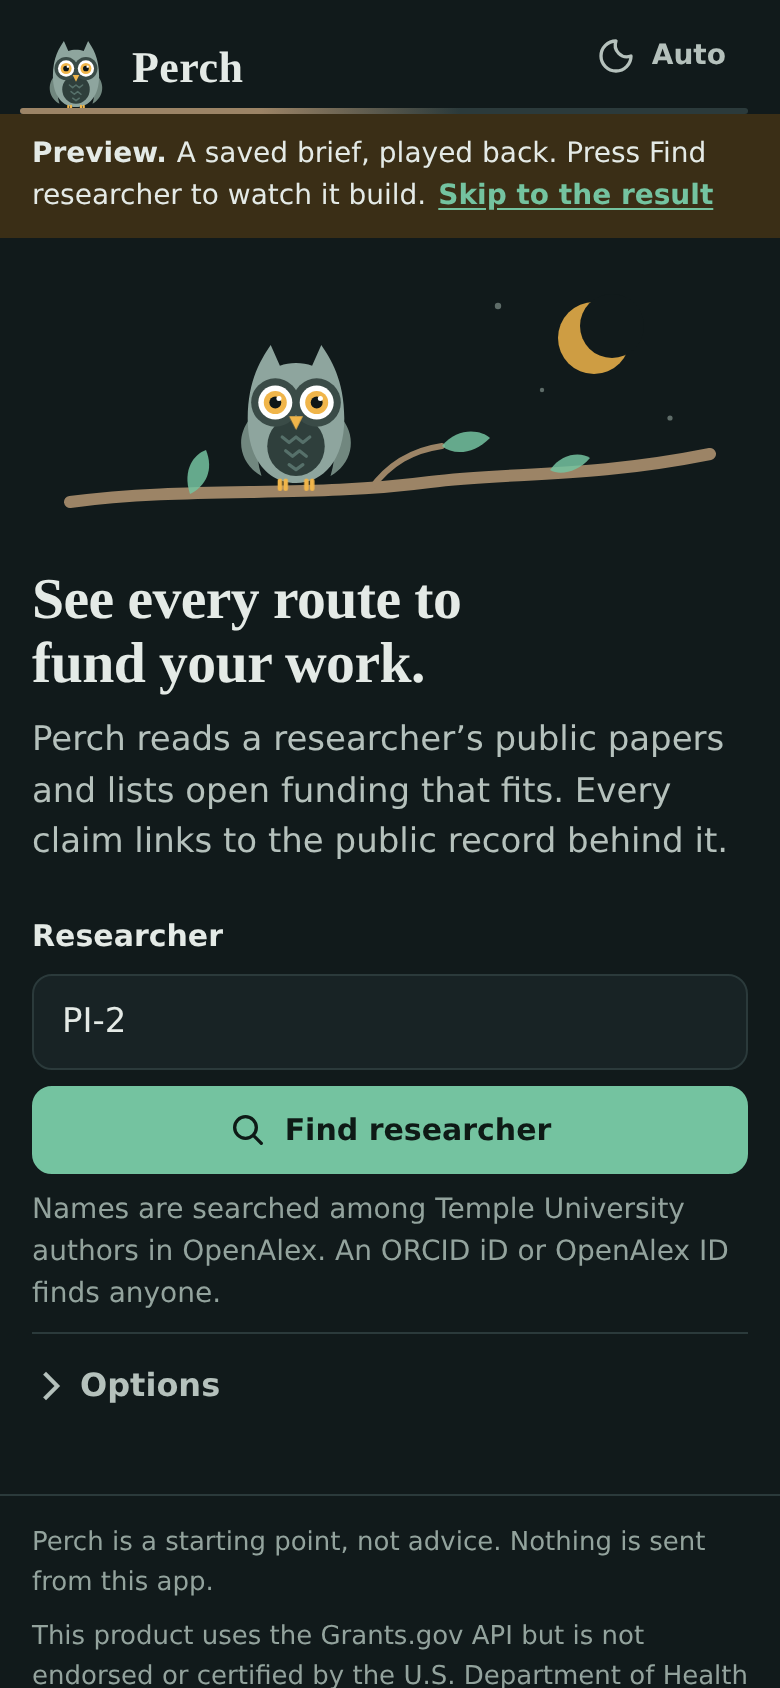
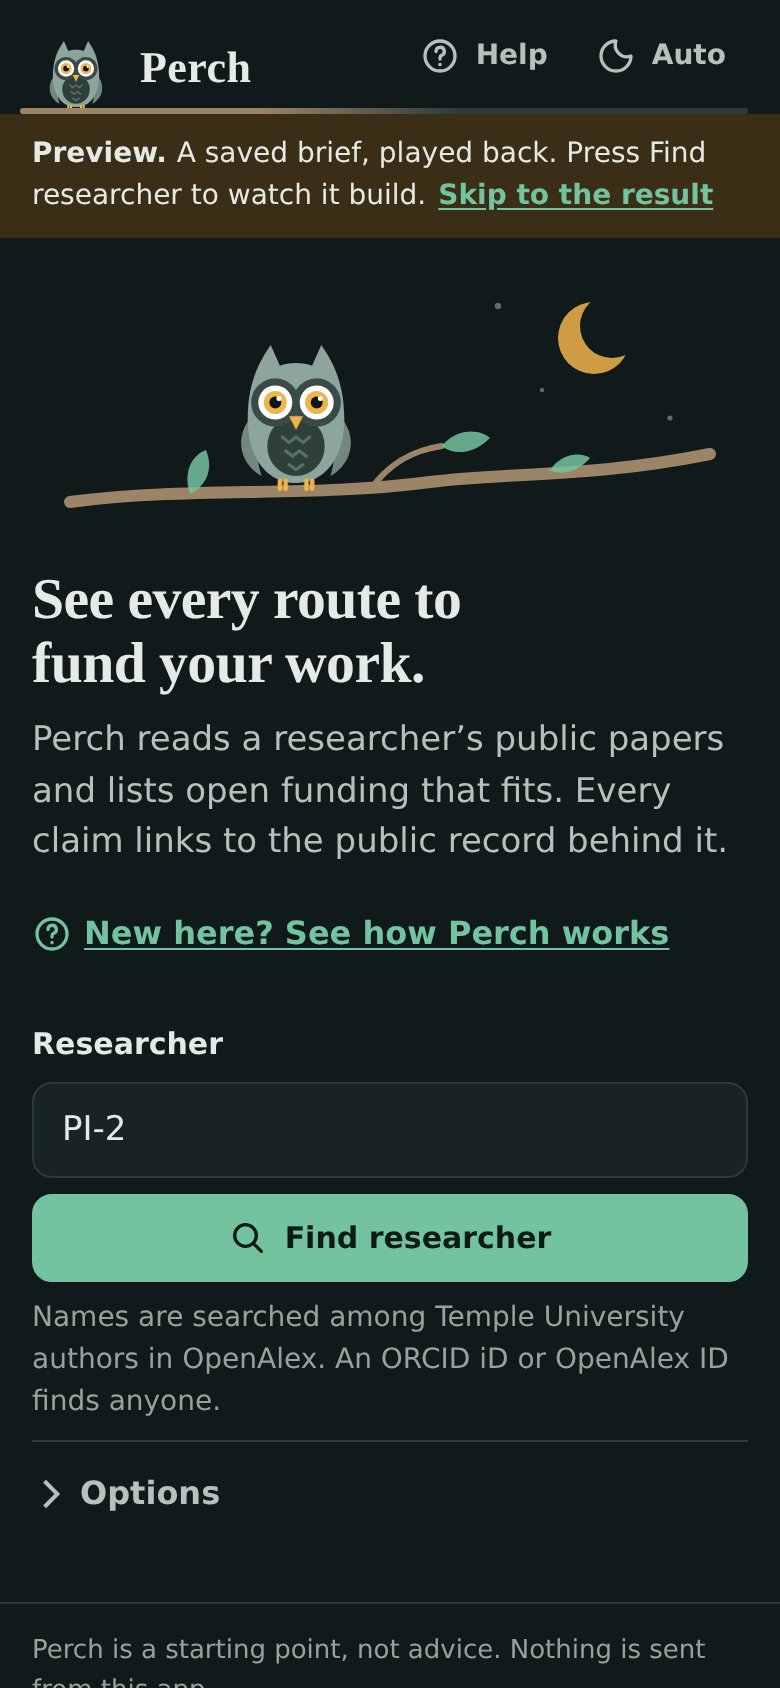
Help page: claims matched to the code after review (models named, forecasted and eligibility limits stated), example pictures marked, legend after picture, back via history; screenshots refreshed

diff --git a/web/help.js b/web/help.js
@@ -5,6 +5,11 @@
 import { h, icon } from "./dom.js";
 import { owl } from "./owl.js";
 
+function example(...kids) {
+  return h("figure", { class: "pic", "aria-hidden": "true" },
+    h("figcaption", { class: "pic-label", text: "Example" }), ...kids);
+}
+
 function bar(w) {
   return h("span", { class: "ph", style: `width:${w}%` });
 }
@@ -12,13 +17,13 @@ function bar(w) {
 // ----- step pictures (decorative; the step text says the same thing) -----
 
 function picFind() {
-  return h("div", { class: "pic", "aria-hidden": "true" },
+  return example(
     h("div", { class: "pic-field" }, h("span", { class: "pic-ph-text", text: "Name, ORCID iD or OpenAlex ID" })),
     h("div", { class: "pic-btn" }, icon("search"), h("span", { text: "Find researcher" })));
 }
 
 function picConfirm() {
-  return h("div", { class: "pic", "aria-hidden": "true" },
+  return example(
     h("div", { class: "pic-card" },
       h("div", { class: "pic-row" }, icon("person"), bar(46), h("span", { class: "tag moss", text: "Temple University" })),
       h("div", { class: "pic-row" }, bar(30), bar(24)),
@@ -27,7 +32,7 @@ function picConfirm() {
 
 function picWatch() {
   const knots = ["done", "done", "done", "running", "pending", "pending", "pending"];
-  return h("div", { class: "pic", "aria-hidden": "true" },
+  return example(
     h("div", { class: "pic-branch" },
       h("div", { class: "branch-line" }), h("div", { class: "branch-fill", style: "width:50%" }),
       h("div", { class: "knots" }, knots.map((s) => h("span", { class: "knot", "data-status": s }))),
@@ -37,7 +42,7 @@ function picWatch() {
 
 function picLead() {
   const n = (i) => h("span", { class: "callout", text: String(i) });
-  return h("div", { class: "pic pic-lead", "aria-hidden": "true" },
+  return example(
     h("div", { class: "pic-card" },
       h("div", { class: "pic-row between" },
         h("span", { class: "tags" }, h("span", { class: "tag", text: "NIH" }), h("span", { class: "tag", text: "R01" })),
@@ -56,58 +61,61 @@ function picLead() {
 function steps() {
   const items = [
     ["Find the researcher", picFind(),
-      "Type a name, an ORCID iD or an OpenAlex ID. Names are searched among Temple University authors."],
+      "Type a name, an ORCID iD or an OpenAlex ID. Names are searched among authors whose latest institution in OpenAlex is Temple University; if a name is not found, paste the ORCID iD."],
     ["Confirm it is the right person", picConfirm(),
       "Check the institution, topics and paper count. Nothing runs until you press Build brief."],
     ["Watch the brief build", picWatch(),
-      "Scout moves along the branch as each step finishes. The profile is ready in seconds; cited explanations take a minute or two."],
+      "Scout moves along the branch as each step finishes. In tests on the local model, the profile was ready in about 10 seconds and a full brief with explanations took about a minute and a half."],
     ["Read the routes and decide", picLead(), null],
   ];
   const legend = h("ol", { class: "callouts" },
     h("li", { text: "The fit estimate is a model’s judgment of how well the opportunity matches the papers. It is not the odds of funding." }),
-    h("li", { text: "The title opens the full record, as Grants.gov lists it." }),
+    h("li", { text: "The title, like Evidence, opens the record inside Perch, with a link to Grants.gov." }),
     h("li", { text: "Dates and amounts are copied from the record. Amber means it closes within 30 days." }),
     h("li", { text: "Text a model wrote is tagged. Open “Why it fits” to see which papers it cites." }),
-    h("li", { text: "Keep what is worth a closer look, dismiss what is not. Evidence opens the record behind the lead." }));
+    h("li", { text: "Keep what is worth a closer look; dismiss what is not. Dismissed leads can be restored." }));
   return h("section", { class: "help-block", "aria-labelledby": "h-use" },
     h("h2", { id: "h-use", class: "section-title", text: "How to use Perch" }),
     h("ol", { class: "how-steps" }, items.map(([title, pic, text], i) => h("li", { class: "how-step" },
       h("div", { class: "how-text" },
         h("span", { class: "step-n", "aria-hidden": "true", text: String(i + 1) }),
         h("h3", { text: title }),
-        text ? h("p", { text }) : legend),
-      pic))));
+        text ? h("p", { text }) : null),
+      pic, text ? null : legend))));
 }
 
 function pipeline() {
   const stages = [
-    ["paper", "Read the papers", "record",
-      "Perch fetches the researcher’s public papers from OpenAlex, and their public awards from NIH RePORTER and NSF."],
-    ["threads", "Group them into threads", "code",
-      "Papers are grouped by what they are about, with recent work counting for more."],
-    ["search2", "Search open funding", "code",
-      "Each thread is matched against open and forecasted opportunities from Grants.gov, by meaning and by shared words."],
-    ["filter", "Drop what you cannot apply to", "rules",
-      "Fixed rules read each record’s applicant types and title, and drop opportunities a university applicant is not eligible for."],
-    ["rank", "Rank the rest", "model",
-      "A ranking model puts the opportunities closest to the papers first."],
-    ["pen", "Explain each lead", "model",
+    ["paper", "Read the papers", ["record"],
+      "Perch fetches the researcher’s public papers from OpenAlex, and public awards from NIH RePORTER and NSF Award Search. Every record keeps its source, a link to it and when it was fetched."],
+    ["threads", "Group them into threads", ["code", "model"],
+      "An embedding model turns each paper into numbers that capture its meaning. Code groups the papers by topic, with recent work counting for more."],
+    ["search2", "Search open funding", ["code", "model"],
+      "Each thread is matched against opportunities posted on Grants.gov, by meaning and by shared words. Forecasted calls are not shown yet."],
+    ["filter", "Drop what a university cannot apply to", ["rules"],
+      "Rules drop anything closed, without a close date, or not open to universities. They also drop what this version leaves out: fellowships, postdoc and dissertation awards, small-business programs, limited competitions and calls restricted by career stage."],
+    ["rank", "Rank the rest", ["model"],
+      "A ranking model puts the closest matches to the papers first."],
+    ["threads", "Summarise the profile", ["model"],
+      "A language model writes topic labels and a two-sentence summary of the papers."],
+    ["pen", "Explain each lead", ["model"],
       "A language model writes what the opportunity funds and what the cited papers did, plus a fit estimate."],
-    ["check", "Check every claim", "rules",
-      "Code checks that each citation, date and number is in a cited record. A second model checks each statement against its source. Text that fails is rewritten once, then withheld."],
-    ["person", "You decide", "you",
-      "You keep or dismiss leads and open any record. Perch sends nothing."],
+    ["check", "Check every claim", ["rules", "model"],
+      "Code checks that each citation, date and number is in a cited record; text that fails is rewritten once, then withheld. A second model checks each statement against its source; one it cannot match is shown with a warning."],
+    ["person", "You decide", ["you"],
+      "You keep or dismiss leads and open any record. Perch sends no email and writes to no outside system."],
   ];
-  const kinds = { record: "Public records", code: "Code", rules: "Fixed rules", model: "Model", you: "You" };
+  const kinds = { record: "Public records", code: "Code", rules: "Rules", model: "Model", you: "You" };
   return h("section", { class: "help-block", "aria-labelledby": "h-how" },
     h("h2", { id: "h-how", class: "section-title", text: "How Perch works" }),
-    h("p", { class: "lede", text: "The same steps run the same way every time. Models do two bounded jobs, ranking and writing, and everything they write is checked against the records." }),
-    h("p", { class: "flow-key", "aria-hidden": "true" },
-      ...["record", "code", "rules", "model"].map((k) => h("span", { class: `kind ${k}`, text: kinds[k] }))),
-    h("ol", { class: "flow" }, stages.map(([ic, title, kind, text]) => h("li", { class: `flow-step ${kind}` },
+    h("p", { class: "lede", text: "The steps run the same way every time. Models turn text into numbers, rank and write; a separate model checks the writing; rules and code do the rest." }),
+    h("ol", { class: "flow" }, stages.map(([ic, title, ks, text]) => h("li", { class: `flow-step ${ks[ks.length - 1]}` },
       h("span", { class: "flow-icon", "aria-hidden": "true" }, icon(ic)),
       h("div", {},
-        h("h3", {}, h("span", { text: title }), h("span", { class: `kind ${kind}`, text: kinds[kind] })),
+        h("h3", { text: title }),
+        h("p", { class: "kinds" }, h("span", { class: "sr-only", text: "Done by: " }),
+          ks.map((k, n) => [n ? h("span", { class: "sr-only", text: " and " }) : null,
+            h("span", { class: `kind ${k}`, text: kinds[k] })])),
         h("p", { text }))))));
 }
 
@@ -116,16 +124,14 @@ function labels() {
   return h("section", { class: "help-block", "aria-labelledby": "h-labels" },
     h("h2", { id: "h-labels", class: "section-title", text: "Reading the labels" }),
     h("ul", { class: "label-list" },
-      row(h("span", { class: "tag model", text: "Model text" }),
-        "A model wrote this. It passed the citation checks, but read it as a summary, not as the record."),
       row(h("span", { class: "inference mini-inf" }, h("span", { class: "tag model", text: "Inference" })),
-        "A model’s reading of why the work fits. A judgment, never a fact."),
+        "A model’s reading of why the work fits. A judgment, not a fact."),
       row(h("span", { class: "fit strong" }, h("span", { class: "fit-k", text: "Fit estimate" }), h("span", { text: "strong" })),
         "Strong is 80 or more out of 100, good 60 to 79, partial 40 to 59, weak below 40."),
       row(h("span", { class: "missing", text: "Not stated in the record" }),
         "The source leaves this blank. Perch never fills a gap with a guess."),
       row(h("span", { class: "notice warn sample-warn" }, icon("warn"), h("span", { text: "Withheld" })),
-        "An explanation or statement failed the checks, so it is withheld or flagged. The record fields still show."),
+        "An explanation failed the citation check twice and is withheld, or a statement could not be matched to its source and is flagged. The record fields still show."),
       row(h("span", { class: "big-date", text: "Award horizon" }),
         "The end date of the last public NIH or NSF award found. Perch infers nothing about lab finances.")));
 }
@@ -134,31 +140,24 @@ function limits() {
   return h("section", { class: "help-block", "aria-labelledby": "h-limits" },
     h("h2", { id: "h-limits", class: "section-title", text: "What Perch does not do" }),
     h("ul", { class: "plain-list" },
-      h("li", { text: "It does not send anything. Nothing leaves the app unless you copy or download it." }),
+      h("li", { text: "It sends no email and writes to no outside system." }),
+      h("li", { text: "It does not check your personal eligibility, such as career stage, citizenship or internal limited-submission rules. Read each record." }),
       h("li", { text: "It does not tell you to apply, or predict whether you would win. A brief is a starting point." }),
-      h("li", { text: "It reads public records only: papers, public federal awards and posted opportunities." }),
-      h("li", { text: "It does not yet cover foundations, industry partners or hand-offs to Temple offices. Those are being built." })));
-}
-
-function sources() {
-  return h("section", { class: "help-block", "aria-labelledby": "h-src" },
-    h("h2", { id: "h-src", class: "section-title", text: "Where the data comes from" }),
-    h("dl", { class: "fields" },
-      h("div", { class: "field" }, h("dt", { text: "Papers and authors" }), h("dd", { text: "OpenAlex" })),
-      h("div", { class: "field" }, h("dt", { text: "Public awards" }), h("dd", { text: "NIH RePORTER, NSF Award Search" })),
-      h("div", { class: "field" }, h("dt", { text: "Open opportunities" }), h("dd", { text: "Grants.gov" }))),
-    h("p", { class: "hint", text: "Each record shows its source, a link to it, and when Perch fetched it. The Grants.gov notice is at the foot of every page." }));
+      h("li", { text: "It covers federal opportunities posted on Grants.gov. Foundations and industry partners are being built." }),
+      h("li", { text: "It reads public records only: papers, public federal awards and posted opportunities." })));
 }
 
 export function renderHelp(container, { back }) {
   const hello = owl("idle", "owl-md help-owl", { button: true });
   container.replaceChildren(h("article", { class: "help" },
-    h("a", { class: "back", href: back, "data-key": "help-back" }, icon("back"), h("span", { text: "Back" })),
+    h("a", { class: "back", href: back, "data-key": "help-back", onclick: (e) => {
+      if (back !== "#/" && history.length > 1) { e.preventDefault(); history.back(); }
+    } }, icon("back"), h("span", { text: "Back" })),
     h("header", { class: "help-head" },
       h("div", {},
         h("h1", { class: "who", text: "Help" }),
         h("p", { class: "lede", text: "Perch reads a researcher’s public papers, finds open federal funding that fits, and shows the record behind every claim." })),
       hello),
-    steps(), pipeline(), labels(), limits(), sources(),
+    steps(), pipeline(), labels(), limits(),
     h("p", { class: "help-scout" }, h("span", { text: "Scout the owl moves while Perch works. Tap Scout to say hello." }))));
 }

diff --git a/web/styles.css b/web/styles.css
@@ -492,6 +492,9 @@ button.owl:focus-visible { outline: 3px solid var(--focus); outline-offset: 2px;
 .hero-help { margin-top: 10px; }
 .hero-help a { display: inline-flex; align-items: center; gap: 6px; min-height: 44px; font-weight: 600; }
 .help { display: grid; gap: 8px; grid-template-columns: minmax(0, 1fr); }
+.help .back { justify-self: start; }
+body.on-help .banner { display: none; }
+#help[aria-current="page"] { background: var(--sunk); color: var(--ink); }
 .help-head { display: flex; gap: 12px; align-items: flex-start; justify-content: space-between; }
 .help-head .lede { margin-top: 6px; max-width: 52ch; }
 .help-owl { width: 72px; height: 72px; margin-top: -4px; }
@@ -504,7 +507,11 @@ button.owl:focus-visible { outline: 3px solid var(--focus); outline-offset: 2px;
 .step-n { grid-row: span 2; width: 28px; height: 28px; border-radius: 50%; background: var(--moss); color: var(--moss-ink); display: grid; place-items: center; font-weight: 700; font-size: 14px; align-self: start; }
 .how-text h3 { font-size: 17px; font-weight: 650; }
 .how-text p { color: var(--ink-2); }
-.pic { margin-left: 44px; background: var(--sunk); border-radius: var(--r-card); padding: 14px; display: grid; gap: 10px; position: relative; }
+.pic { margin: 0 0 0 44px; background: var(--sunk); border: 1.5px dashed var(--line); border-radius: var(--r-card); padding: 28px 14px 14px; display: grid; gap: 10px; position: relative; cursor: default; user-select: none; -webkit-user-select: none; }
+.pic > :not(.pic-label) { opacity: .88; filter: saturate(.7); pointer-events: none; }
+.pic-label { position: absolute; top: 6px; left: 12px; font-size: 12px; font-weight: 650; color: var(--ink-3); }
+.pic .fit-k, .sample .fit-k { display: inline !important; }
+.how-step > .callouts { margin-left: 44px; }
 .ph { display: inline-block; height: 10px; border-radius: 5px; background: var(--line); }
 .pic-field { background: var(--leaf); border: 1px solid var(--line); border-radius: var(--r-ctl); min-height: 40px; display: flex; align-items: center; padding: 0 12px; }
 .pic-ph-text { color: var(--ink-3); font-size: 14px; }
@@ -527,7 +534,6 @@ button.owl:focus-visible { outline: 3px solid var(--focus); outline-offset: 2px;
 .callouts { margin: 4px 0 0; padding-left: 0; list-style: none; counter-reset: c; display: grid; gap: 8px; }
 .callouts li { counter-increment: c; display: grid; grid-template-columns: 22px minmax(0, 1fr); gap: 8px; color: var(--ink-2); }
 .callouts li::before { content: counter(c); width: 22px; height: 22px; border-radius: 50%; background: var(--ink); color: var(--paper); font-size: 12px; font-weight: 700; display: grid; place-items: center; margin-top: 1px; }
-.flow-key { display: flex; flex-wrap: wrap; gap: 6px; }
 .kind { display: inline-flex; align-items: center; height: 22px; padding: 0 8px; border-radius: 6px; font-size: 12.5px; font-weight: 650; white-space: nowrap; }
 .kind.record { background: var(--sunk); color: var(--ink-2); }
 .kind.code, .kind.rules { background: var(--moss-soft); color: var(--ink); }
@@ -540,7 +546,8 @@ button.owl:focus-visible { outline: 3px solid var(--focus); outline-offset: 2px;
 .flow-step.model .flow-icon { background: var(--model-soft); border-color: transparent; color: var(--model); }
 .flow-step.code .flow-icon, .flow-step.rules .flow-icon { background: var(--moss-soft); border-color: transparent; color: var(--moss); }
 .flow-step.you .flow-icon { background: var(--ember-soft); border-color: transparent; color: var(--ember); }
-.flow-step h3 { display: flex; flex-wrap: wrap; gap: 4px 8px; align-items: center; font-size: 16px; font-weight: 650; margin-top: 8px; }
+.flow-step h3 { font-size: 16px; font-weight: 650; margin-top: 8px; }
+.kinds { display: flex; flex-wrap: wrap; gap: 4px; margin: 4px 0 2px; }
 .flow-step p { color: var(--ink-2); font-size: 15px; margin-top: 2px; }
 .label-list { list-style: none; margin: 0; padding: 0; display: grid; gap: 12px; }
 .label-list li { display: grid; grid-template-columns: minmax(0, 150px) minmax(0, 1fr); gap: 12px; align-items: start; }
@@ -553,11 +560,13 @@ button.owl:focus-visible { outline: 3px solid var(--focus); outline-offset: 2px;
 .plain-list { margin: 0; padding-left: 20px; display: grid; gap: 6px; color: var(--ink-2); }
 .help-scout { color: var(--ink-3); font-size: 14px; padding-top: 8px; }
 @media (max-width: 479px) {
-  .pic { margin-left: 0; }
+  .pic, .how-step > .callouts { margin-left: 0; }
   .label-list li { grid-template-columns: minmax(0, 1fr); gap: 4px; }
 }
 @media (min-width: 720px) {
   .how-step { grid-template-columns: minmax(0, 1fr) minmax(0, 1fr); align-items: start; gap: 20px; }
+  .how-step > .callouts { grid-column: 1; grid-row: 2; margin-left: 44px; }
+  .how-step > .pic { grid-column: 2; grid-row: 1 / span 2; }
   .pic { margin-left: 0; }
 }
 @media (max-width: 359px) {

diff --git a/web/app.js b/web/app.js
@@ -44,7 +44,11 @@ function announce(msg) {
 function route() {
   if (location.hash && !location.hash.startsWith("#/")) return; // in-page anchors, e.g. the skip link
   const parts = location.hash.replace(/^#\/?/, "").split("/").filter(Boolean);
-  if (parts[0] === "help") {
+  const onHelp = parts[0] === "help";
+  if (onHelp) $("#help").setAttribute("aria-current", "page");
+  else $("#help").removeAttribute("aria-current");
+  document.body.classList.toggle("on-help", onHelp);
+  if (onHelp) {
     stopPolling();
     S.briefId = null;
     S.brief = null;

diff --git a/docs/design/UI.md b/docs/design/UI.md
@@ -169,3 +169,30 @@ Two independent reviewers, given the code, this document and the screenshots, lo
 - **Kept, by decision.** Scout still blinks now and then while idle; that is the "a bit of personality" the brief asked for. Only the progress owl moves while work runs. The app-bar owl and the small card owls stay still, and reduced motion stops all of it.
 
 Checked by `scripts/screenshots.py`: keep and dismiss take effect after a watched build, and no layout scrolls sideways at 320, 390 or 1280 px in light or dark.
+
+## 7. Help page
+
+Opened from the Help button in the app bar, or the "New here?" link on Find, at `#/help` (`web/help.js`). It has four parts:
+
+- **How to use Perch:** four steps, each with a picture built from the app's own parts. The pictures carry an "Example" label, a dashed frame and muted colours, so they do not read as controls.
+- **How Perch works:** the pipeline, with each step tagged by who does it: public records, code, rules, model or you.
+- **Reading the labels:** what each label in the app means.
+- **What Perch does not do.**
+
+An independent review checked every sentence against the code and found 18 problems, all fixed:
+
+- **Accuracy:**
+  - The page said models do two jobs. It now names the embedding, ranking, summary, explanation and checking models, and adds the summary step.
+  - The check step now says that only citation-check failures are rewritten and withheld. Statements the grounding model cannot match are shown with a warning.
+  - Forecasted calls are not shown, and the page now says so.
+  - The eligibility step now lists what the rules drop. A new line says Perch does not check personal eligibility.
+  - "Nothing leaves the app" was false with a hosted model. It now reads "sends no email and writes to no outside system".
+  - The timing is now the measured figure, not a guess.
+  - The name search is described as matching the last known institution, with an ORCID iD as the fallback.
+- **UX:**
+  - On phones, the step-4 legend now follows its picture.
+  - Repeated items were cut, including the sources section, which is now folded into the first pipeline step.
+  - Back now uses browser history.
+  - The Help button shows when you are on Help.
+  - The preview banner is hidden on Help.
+  - The kind tags sit outside the headings, so screen readers announce each step cleanly.

diff --git a/docs/screenshots/README.md b/docs/screenshots/README.md
@@ -2,4 +2,4 @@
 
 Taken by `scripts/screenshots.py` from the replay preview (`scripts/build_ui_preview.py`): a saved brief played back, the researcher shown by alias. `phone-*` are 390 px wide at 2x, `wide-*` are 1280 px, `dark-*` are a phone in dark mode.
 
-1. Find. 2. Candidate to confirm. 3. Building, profile tab. 4. Building, routes tab with explanations landing. 5. Routes, finished. 6. Why it fits. 7. Evidence panel, a paper. 8. Evidence panel, an opportunity. 9. Routes, full page, one kept and one dismissed. 10. Profile, full page.
+1. Find. 2. Candidate to confirm. 3. Building, profile tab. 4. Building, routes tab with explanations landing. 5. Routes, finished. 6. Why it fits. 7. Evidence panel, a paper. 8. Evidence panel, an opportunity. 9. Routes, full page, one kept and one dismissed. 10. Profile, full page. 11. Help, full page.
